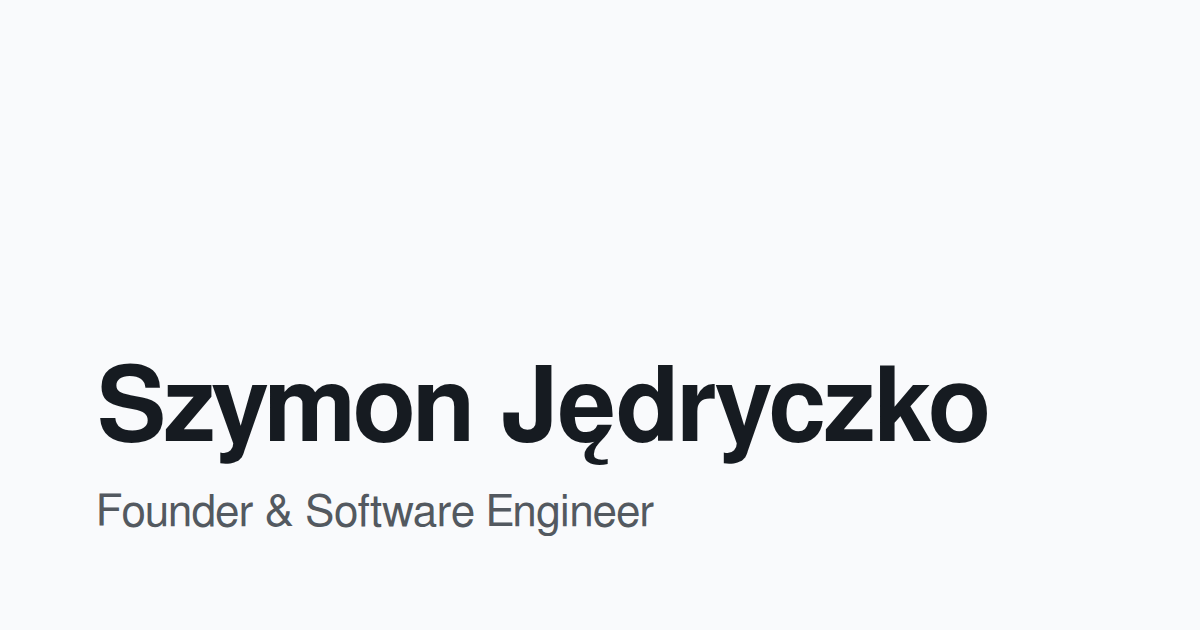
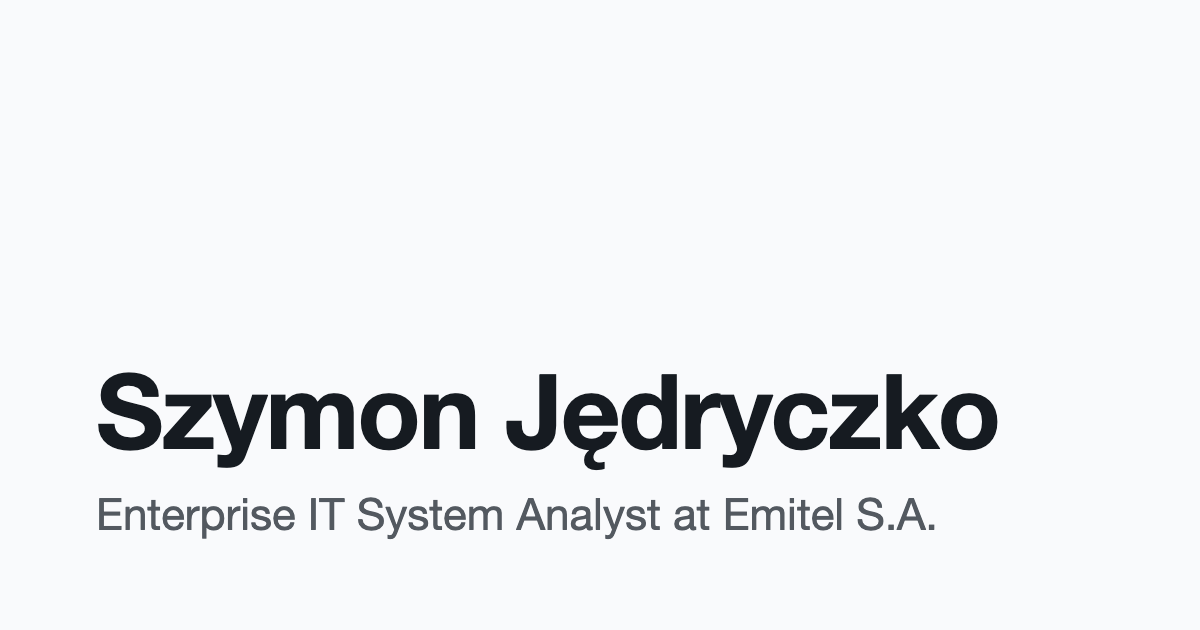
fix(meta): odśwież karty udostępniania i mapę strony
Karty obu języków pokazują aktualną rolę. Mapa strony zawiera datę aktualizacji obu wersji.

Changed region(s): [[0.0617, 0.573, 0.8325, 0.754], [0.0617, 0.7841, 0.7708, 0.8444], [0.5858, 0.7238, 0.6167, 0.754]]

diff --git a/checks/og-pl.html b/checks/og-pl.html
@@ -26,6 +26,6 @@
 </head>
 <body>
 <h1>Szymon Jędryczko</h1>
-<p class="role">Założyciel i&nbsp;inżynier oprogramowania</p>
+<p class="role">Enterprise IT System Analyst w Emitelu S.A.</p>
 </body>
 </html>

diff --git a/checks/og.html b/checks/og.html
@@ -26,6 +26,6 @@
 </head>
 <body>
 <h1>Szymon Jędryczko</h1>
-<p class="role">Founder &amp; Software Engineer</p>
+<p class="role">Enterprise IT System Analyst at Emitel S.A.</p>
 </body>
 </html>
